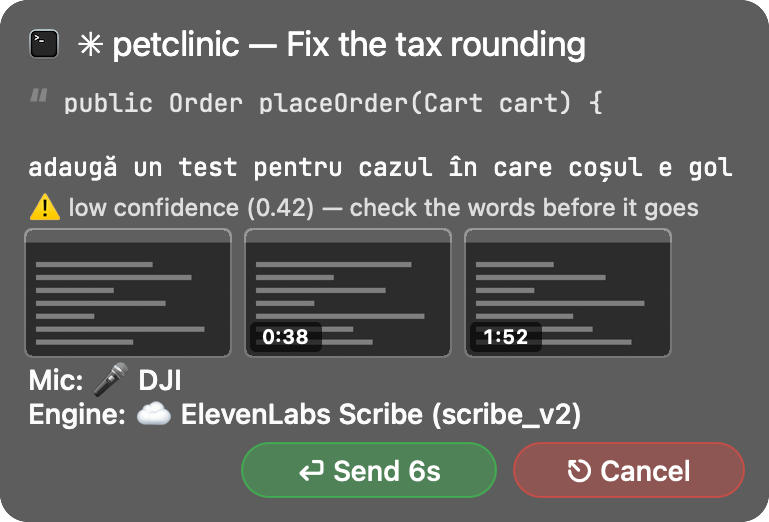
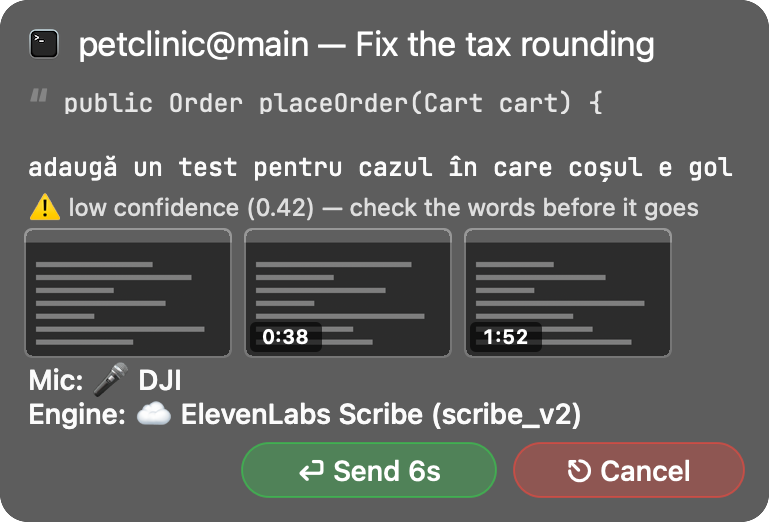
🎯 The prompt panel's first line says who the words go to
A new session showed the ✨ and little else; a bound terminal showed its tab
title, which for a Claude Code session is the task, not the folder it
started in. On the panel (only) the first line is now the recipient:
'✨ <picked folder> — new session', or '<folder@branch> — <task>', the
reply pop-up's header wording. Shots prompt-recipient and prompt-spawn.

Changed region(s): [[0.0936, 0.0613, 0.8739, 0.1226]]

diff --git a/docs/overlay-states.html b/docs/overlay-states.html
@@ -100,7 +100,7 @@
 <header class="page">
   <h1>Every state of the overlay</h1>
   <p class="sub">
-    All 64 states the Walkie&nbsp;Talkie chip and panel can be in — what each one
+    All 66 states the Walkie&nbsp;Talkie chip and panel can be in — what each one
     is, and the moment it is on screen. The pictures are the real views drawing
     themselves, not mockups.
   </p>
@@ -686,19 +686,39 @@
       <section class="card" id="prompt-inline">
         <header>
           <h3>The prompt, with its pictures where they were taken</h3>
-          <div class="tags"><span class="tag tag-panel" title="top-left of the screen, blurred, full opacity, ✕ on hover">panel</span><span class="tag">alpha 1.00</span><span class="tag">749×584 pt</span></div>
+          <div class="tags"><span class="tag tag-panel" title="top-left of the screen, blurred, full opacity, ✕ on hover">panel</span><span class="tag">alpha 1.00</span><span class="tag">832×616 pt</span></div>
         </header>
-        <div class="shot"><img src="states/prompt-inline.png" width="749" height="584" style="opacity:1" alt="The prompt, with its pictures where they were taken"></div>
+        <div class="shot"><img src="states/prompt-inline.png" width="832" height="616" style="opacity:1" alt="The prompt, with its pictures where they were taken"></div>
         <p class="when">Word timings placed the markers (ElevenLabs, local): every <code>[📸N…]</code> token in the words.</p>
         <p class="note">2026-10-07, Victor: the panel must show <em>where</em> each thing landed, to check the annotation. A picture token ends its paragraph, captions the picture drawn under it — the ✂ cut-out, or the frame — and the words carry on below. A highlight or a picked element is its own indented paragraph. Frames the words did not take (here the automatic one) stay in the strip.</p>
         <code class="slug">prompt-inline</code>
       </section>
+      <section class="card" id="prompt-recipient">
+        <header>
+          <h3>The first line says who the words go to</h3>
+          <div class="tags"><span class="tag tag-panel" title="top-left of the screen, blurred, full opacity, ✕ on hover">panel</span><span class="tag">alpha 1.00</span><span class="tag">385×136 pt</span></div>
+        </header>
+        <div class="shot"><img src="states/prompt-recipient.png" width="385" height="136" style="opacity:1" alt="The first line says who the words go to"></div>
+        <p class="when">Bound to a Claude Code session whose tab title carries only its task.</p>
+        <p class="note">2026-10-17, Victor: <em>&quot;the first line should say to who it goes&quot;</em>. The folder the session started in, then the task its tab title carries — the reply pop-up&#x27;s header wording. The title alone (<code>✳ Fix the tax rounding</code>) never said which folder.</p>
+        <code class="slug">prompt-recipient</code>
+      </section>
+      <section class="card" id="prompt-spawn">
+        <header>
+          <h3>…and a new session, in the folder he picked</h3>
+          <div class="tags"><span class="tag tag-panel" title="top-left of the screen, blurred, full opacity, ✕ on hover">panel</span><span class="tag">alpha 1.00</span><span class="tag">385×136 pt</span></div>
+        </header>
+        <div class="shot"><img src="states/prompt-spawn.png" width="385" height="136" style="opacity:1" alt="…and a new session, in the folder he picked"></div>
+        <p class="when">🔼 ↑ mid-sentence, then a folder clicked in the session list.</p>
+        <p class="note">2026-10-17, Victor: <em>&quot;if it&#x27;s a new session, not only the stars … similar to what I&#x27;ve picked in the session list&quot;</em>. The ✨ is the icon, the picked folder as its menu row spells it, then <code>new session</code>; the green button says <code>Start New</code>. Unpicked, the folder is <code>workspace</code>.</p>
+        <code class="slug">prompt-spawn</code>
+      </section>
       <section class="card" id="prompt-copied">
         <header>
           <h3>The prompt, with what he copied where he copied it</h3>
-          <div class="tags"><span class="tag tag-panel" title="top-left of the screen, blurred, full opacity, ✕ on hover">panel</span><span class="tag">alpha 1.00</span><span class="tag">749×411 pt</span></div>
+          <div class="tags"><span class="tag tag-panel" title="top-left of the screen, blurred, full opacity, ✕ on hover">panel</span><span class="tag">alpha 1.00</span><span class="tag">832×427 pt</span></div>
         </header>
-        <div class="shot"><img src="states/prompt-copied.png" width="749" height="411" style="opacity:1" alt="The prompt, with what he copied where he copied it"></div>
+        <div class="shot"><img src="states/prompt-copied.png" width="832" height="427" style="opacity:1" alt="The prompt, with what he copied where he copied it"></div>
         <p class="when">Auto-attach › Everything I Copy: text and an image copied while the prompt recorded.</p>
         <p class="note">2026-10-17, Victor: <em>&quot;also display the copied text or image from clipboard in the preview&quot;</em>. A copied image is a numbered picture like any other (<code>[📸N 📋 copied]</code>), drawn under its caption; copied text is its own indented paragraph, like a highlight — it used to run on as plain words, indistinguishable from what he said.</p>
         <code class="slug">prompt-copied</code>
@@ -756,9 +776,9 @@
       <section class="card" id="prompt-long">
         <header>
           <h3>A long transcript</h3>
-          <div class="tags"><span class="tag tag-panel" title="top-left of the screen, blurred, full opacity, ✕ on hover">panel</span><span class="tag">alpha 1.00</span><span class="tag">749×153 pt</span></div>
+          <div class="tags"><span class="tag tag-panel" title="top-left of the screen, blurred, full opacity, ✕ on hover">panel</span><span class="tag">alpha 1.00</span><span class="tag">832×153 pt</span></div>
         </header>
-        <div class="shot"><img src="states/prompt-long.png" width="749" height="153" style="opacity:1" alt="A long transcript"></div>
+        <div class="shot"><img src="states/prompt-long.png" width="832" height="153" style="opacity:1" alt="A long transcript"></div>
         <p class="when">A sentence that does not fit one line — the panel wraps and grows.</p>
         <p class="note">Width is capped at a third of the screen and the height at what is left of it; the transcript row is measured by asking the label, not by a parallel calculation, because any disagreement is a sentence that silently stops.</p>
         <code class="slug">prompt-long</code>
@@ -766,9 +786,9 @@
       <section class="card" id="prompt-selection-only">
         <header>
           <h3>A highlight with nothing said</h3>
-          <div class="tags"><span class="tag tag-panel" title="top-left of the screen, blurred, full opacity, ✕ on hover">panel</span><span class="tag">alpha 1.00</span><span class="tag">334×155 pt</span></div>
+          <div class="tags"><span class="tag tag-panel" title="top-left of the screen, blurred, full opacity, ✕ on hover">panel</span><span class="tag">alpha 1.00</span><span class="tag">368×155 pt</span></div>
         </header>
-        <div class="shot"><img src="states/prompt-selection-only.png" width="334" height="155" style="opacity:1" alt="A highlight with nothing said"></div>
+        <div class="shot"><img src="states/prompt-selection-only.png" width="368" height="155" style="opacity:1" alt="A highlight with nothing said"></div>
         <p class="when">He stashed a selection and said nothing at all.</p>
         <p class="note">There is no transcript row — and the panel is still held, because a highlight sent by accident deserves the same Cancel the words get. It stopped being part of the text when it moved above it, so without this it would have gone straight out.</p>
         <code class="slug">prompt-selection-only</code>
@@ -795,7 +815,7 @@
       </section>
     </div>
 <footer>
-  Generated from <code>OverlayStates.swift</code> · repo at 0b46428 · 17 Oct 2026 · built 17 Oct 2026, 07:48
+  Generated from <code>OverlayStates.swift</code> · repo at 18d77c7 · 17 Oct 2026 · built 17 Oct 2026, 08:00
 </footer>
 <button class="toggle" onclick="document.body.classList.toggle('light')">Backdrop: dark / light</button>
 </body>

diff --git a/Sources/WalkieTalkie/RelayWindow.swift b/Sources/WalkieTalkie/RelayWindow.swift
@@ -2933,7 +2933,7 @@ private let heardLabel = NSTextField(labelWithString: "")
         // A picked spawn folder wears one too, and for the same reason a
         // binding does: the icon is what says *a terminal*, which is the whole
         // of "as if I were already bound to one".
-        let bound = boundLabel != nil || spawnIcon != nil
+        let bound = boundLabel != nil || spawnIcon != nil || panelSpawning
         titleGlyph.isHidden = !bound
         // **Here rather than in `setBound`**, because the glyph is no longer a
         // property of the binding: it depends on whether a sentence is in flight,
@@ -2950,7 +2950,8 @@ private let heardLabel = NSTextField(labelWithString: "")
         // rows below take over and the orange ring is on the one that pulses.
         let restGlyph = (wisprHearing ? Self.walkieWisprGlyph : nil)
             ?? Self.walkieIdleGlyph ?? Self.micGlyph
-        titleGlyph.image = collapsed ? restGlyph : (spawnIcon ?? boundIcon ?? Self.pinGlyph)
+        titleGlyph.image = collapsed ? restGlyph
+            : panelSpawning ? (spawnIcon ?? Self.sparkleGlyph) : (spawnIcon ?? boundIcon ?? Self.pinGlyph)
         titleRow.frame.size = NSSize(width: width, height: titleRowHeight)
         let column = bound ? glyphColumn : 0
         let gap = bound ? recordDotGap : 0
@@ -3999,6 +4000,7 @@ private let heardLabel = NSTextField(labelWithString: "")
     }
 
     private var identity: String {
+        if sentPrompt != nil, let recipient = panelRecipient { return recipient }
         // **A destination that does not exist yet still outranks one that does.**
         // ⇧ + the wheel sends this dictation to a session it is about to open,
         // and for the length of that sentence the bound terminal is not where the
@@ -4017,6 +4019,31 @@ private let heardLabel = NSTextField(labelWithString: "")
         if let title = boundTitle, !title.isEmpty { return Self.fitHead(title, 44) }
         return boundFolder ?? boundLabel ?? ""
     }
+
+    /// **The prompt panel's first line says who the words go to** (2026-10-17,
+    /// Victor: *"the first line should say to who it goes … similar to what I've
+    /// picked in the session list if I send to a new session"*). A new session
+    /// is the folder he picked, as its menu row spells it, then `new session` —
+    /// the ✨ alone said nothing about where. A bound terminal is its folder, then
+    /// the task its tab title carries — the reply pop-up's header wording
+    /// (`ActiveTerminals.task`): the title alone (`✳ Fix the tax rounding`) did
+    /// not say which folder the session started in. Nil for every other
+    /// destination (caret, ⚡, bind to send), which keeps its own row.
+    private var panelRecipient: String? {
+        if let spawn = spawnLabel {
+            guard spawnMark == "✨" else { return nil }
+            let folder = spawn.hasPrefix("✨ ") ? String(spawn.dropFirst(2)) : spawn
+            return "\(folder) — new session"
+        }
+        guard let folder = boundFolder ?? boundLabel, !folder.isEmpty else { return nil }
+        let name = folder.components(separatedBy: "@").first ?? folder
+        guard let task = ActiveTerminals.task(fromTitle: boundTitle, folder: name) else { return folder }
+        return Self.fitHead("\(folder) — \(task)", 80)
+    }
+
+    /// The panel's spawn wears the ✨ as its icon, picked folder or not — on the
+    /// chip an unpicked one rides as a mark in front of `Listening...` instead.
+    private var panelSpawning: Bool { sentPrompt != nil && spawnLabel != nil && spawnMark == "✨" }
 
     // The title used to be borrowable for a moment (`flashTitle`, for the "+1 📸"
     // receipt). Nothing needs it now that F3 reports itself in the recording row,
@@ -5020,6 +5047,7 @@ private let heardLabel = NSTextField(labelWithString: "")
         promptShownAt = Date()
         promptPointerAtShow = NSEvent.mouseLocation
         promptPointerMoved = false
+        applyTitleText()         // the first line names the recipient (`panelRecipient`)
         layoutContent(animated: true)
         refreshOpacity()
 
@@ -5344,6 +5372,7 @@ private let heardLabel = NSTextField(labelWithString: "")
             setHovering(false)
             spawnHoldPointer = NSEvent.mouseLocation
         } else {
+            applyTitleText()
             layoutContent()
             reposition()
             refreshOpacity()

diff --git a/Sources/WalkieTalkie/OverlayStates.swift b/Sources/WalkieTalkie/OverlayStates.swift
@@ -575,6 +575,23 @@ enum OverlayStates {
                                  inlineShots: [1: frames[1], 2: frames[2]])
             },
 
+            Shot(slug: "prompt-recipient", group: "The held prompt", title: "The first line says who the words go to",
+                 when: "Bound to a Claude Code session whose tab title carries only its task.",
+                 note: "2026-10-17, Victor: *\"the first line should say to who it goes\"*. The folder the session started in, then the task its tab title carries — the reply pop-up's header wording. The title alone (`✳ Fix the tax rounding`) never said which folder.",
+                 shape: "panel", alpha: 1.0) { o in
+                o.setBound(label: "petclinic", folder: "petclinic@main", title: "✳ Fix the tax rounding", icon: terminal)
+                o.showSentPrompt(transcript, hold: 6, words: transcript, heard: heard)
+            },
+
+            Shot(slug: "prompt-spawn", group: "The held prompt", title: "…and a new session, in the folder he picked",
+                 when: "🔼 ↑ mid-sentence, then a folder clicked in the session list.",
+                 note: "2026-10-17, Victor: *\"if it's a new session, not only the stars … similar to what I've picked in the session list\"*. The ✨ is the icon, the picked folder as its menu row spells it, then `new session`; the green button says `Start New`. Unpicked, the folder is `workspace`.",
+                 shape: "panel", alpha: 1.0) { o in
+                o.setBound(label: "petclinic", folder: "petclinic@main", title: "✳ Fix the tax rounding", icon: terminal)
+                o.setSpawnDestination("victor-macos-addons", mark: "✨", icon: RelayWindow.sparkleGlyph)
+                o.showSentPrompt(transcript, hold: 6, words: transcript, heard: heard, spawning: true)
+            },
+
             Shot(slug: "prompt-copied", group: "The held prompt", title: "The prompt, with what he copied where he copied it",
                  when: "Auto-attach › Everything I Copy: text and an image copied while the prompt recorded.",
                  note: "2026-10-17, Victor: *\"also display the copied text or image from clipboard in the preview\"*. A copied image is a numbered picture like any other (`[📸N 📋 copied]`), drawn under its caption; copied text is its own indented paragraph, like a highlight — it used to run on as plain words, indistinguishable from what he said.",

diff --git a/.claude/rules/overlay-chip.md b/.claude/rules/overlay-chip.md
@@ -422,6 +422,14 @@ yields to `--label`).
   (`promptPointerAtShow`); until it has moved more than `promptPointerSlack` (2 pt) being inside is not
   a hover. **The held panel's words can be replaced from outside** (`replacePromptWords`: 🔼 ↓ marking
   it kamikaze, `POST /test/prompt {"do":"edit"}`), and `promptState` is `GET /test/state.prompt`.
+- **The panel's first line says who the words go to** (2026-10-17, Victor: *"the first line should
+  say to who it goes … similar to what I've picked in the session list if I send to a new session"*).
+  `RelayWindow.panelRecipient`, panel only (`sentPrompt != nil`): a spawn is `✨ <folder> — new
+  session` (the picked folder as its menu row spells it, `workspace` unpicked; the ✨ is the row's
+  icon either way — `panelSpawning`), a bound terminal `<folder@branch> — <task>` (`ActiveTerminals.task`
+  off the tab title, the reply pop-up's header wording; the folder alone with no task). Caret, ⚡ and
+  *bind to send* keep their rows. The chip beside the pointer is unchanged. Shots `prompt-recipient`,
+  `prompt-spawn`.
 - **Every dictated prompt panel ends with `Mic: <glyph> <device>` over `Engine: <name>`** (2026-10-06,
   Victor: *"clearly mention the engine that was used and the microphone that was used"*), right above
   the buttons. `AppDelegate.heardLine` builds it from the sentence's `via` (a local fallback, ⌘⌃X or
